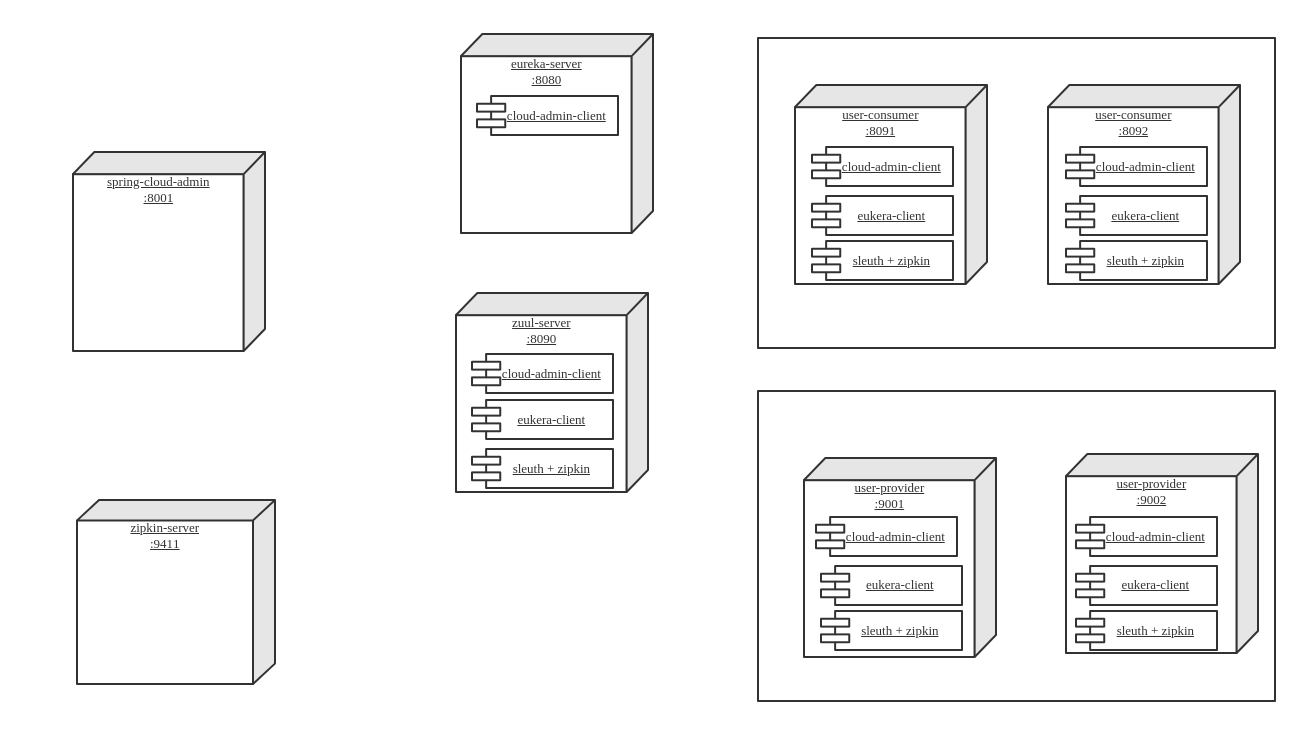
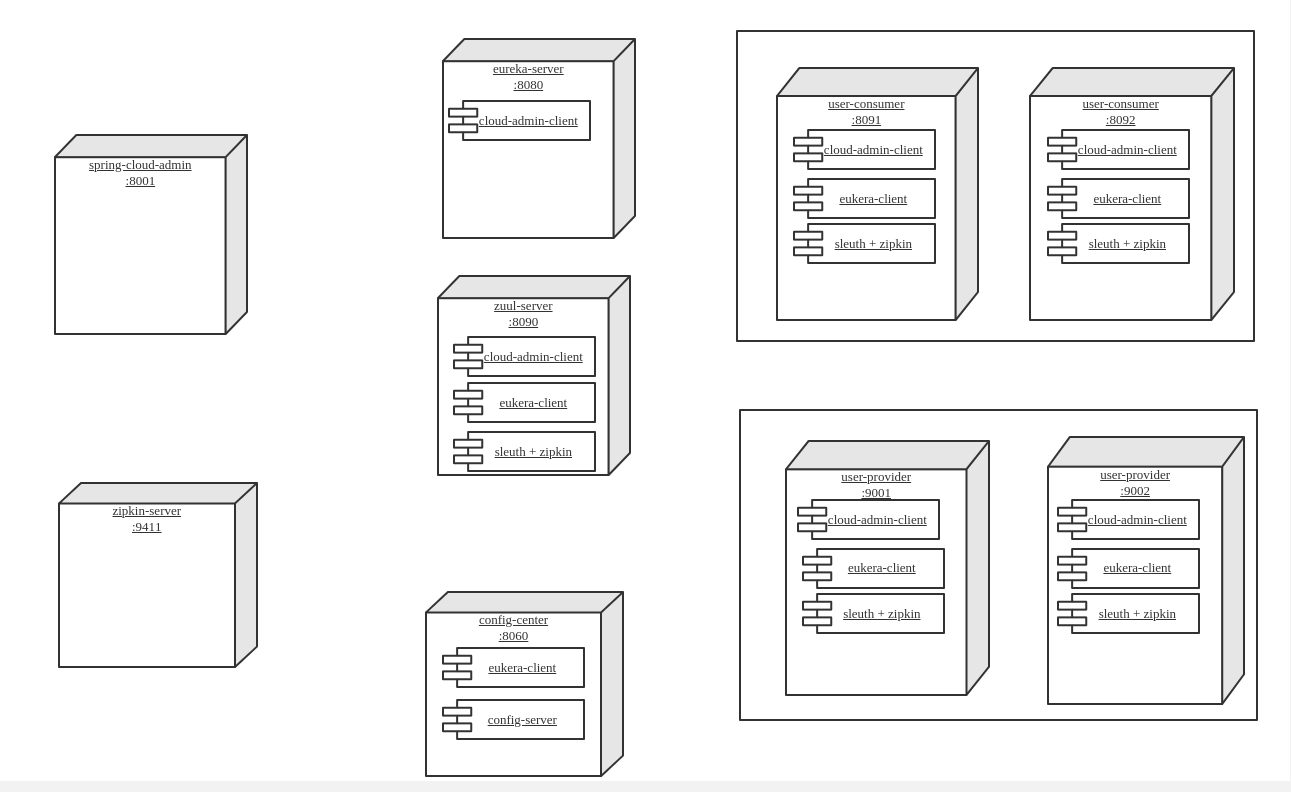
add config-server on 8060

diff --git a/config-center/src/main/java/com/prot/springcloud002/ConfigCenterApp.java b/config-center/src/main/java/com/prot/springcloud002/ConfigCenterApp.java
@@ -1,0 +1,13 @@
+package com.prot.springcloud002;
+
+import org.springframework.boot.SpringApplication;
+import org.springframework.boot.autoconfigure.SpringBootApplication;
+import org.springframework.cloud.config.server.EnableConfigServer;
+
+@EnableConfigServer
+@SpringBootApplication
+public class ConfigCenterApp {
+    public static void main(String[] args) {
+        SpringApplication.run(ConfigCenterApp.class, args);
+    }
+}
